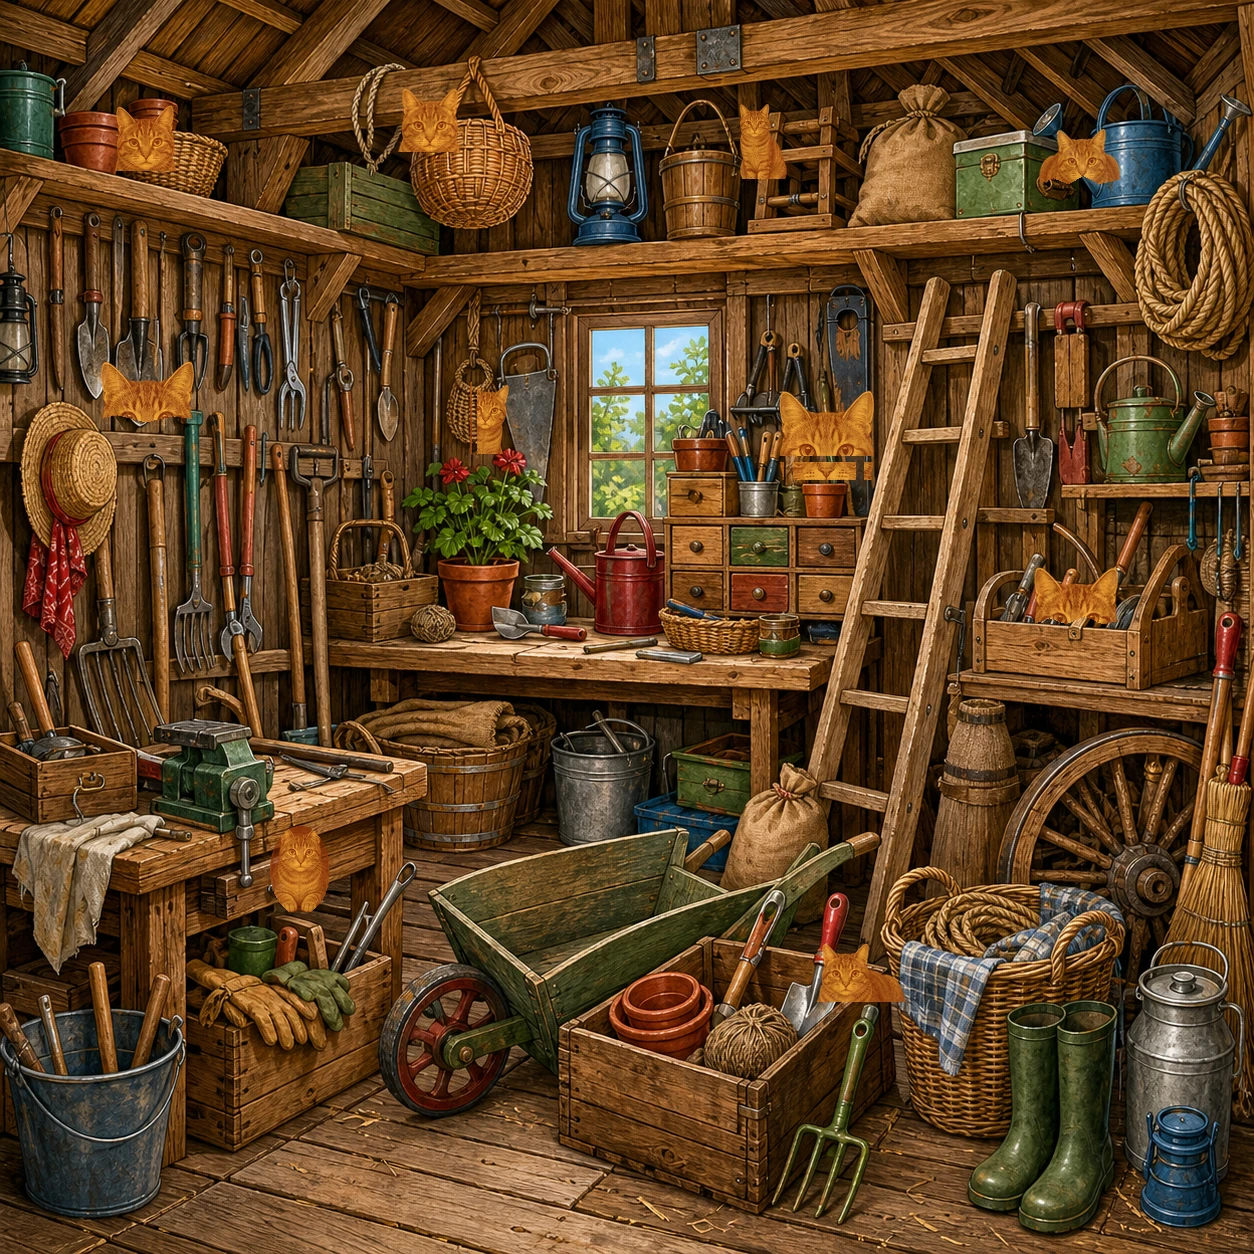
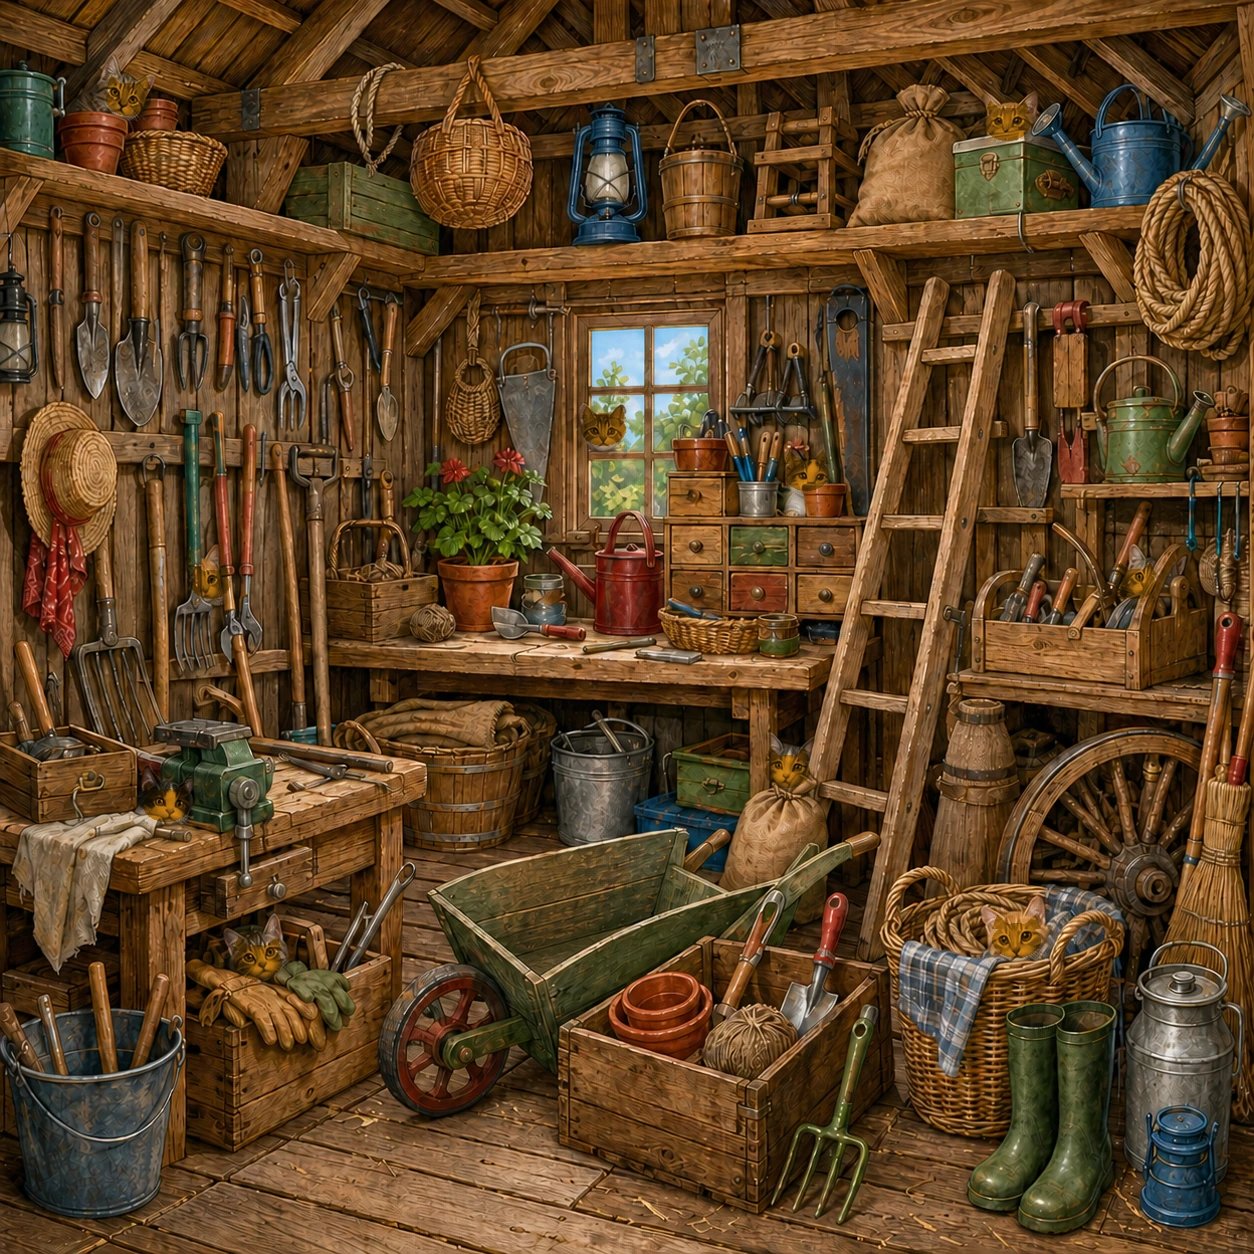
Rebuild review levels 68 to 75

Changed region(s): [[0.0, 0.0, 1.0, 1.0], [0.8397, 0.9019, 0.8708, 0.933]]

diff --git a/app.js b/app.js
@@ -130,7 +130,7 @@ const levelCatalog = [
   ,{ file: "next-19", name: "Lunar Control Laboratory", isColor: true, cats: [{"x":0.116,"y":0.11,"hitX":0.0387,"hitY":0.0383,"clipX":0.0337,"clipY":0.0333},{"x":0.3413,"y":0.0957,"hitX":0.0399,"hitY":0.0375,"clipX":0.0349,"clipY":0.0325},{"x":0.6077,"y":0.1128,"hitX":0.035,"hitY":0.0419,"clipX":0.03,"clipY":0.0369},{"x":0.8612,"y":0.1248,"hitX":0.0447,"hitY":0.035,"clipX":0.0397,"clipY":0.03},{"x":0.1176,"y":0.3122,"hitX":0.0515,"hitY":0.0363,"clipX":0.0465,"clipY":0.0313},{"x":0.3904,"y":0.3305,"hitX":0.035,"hitY":0.0435,"clipX":0.03,"clipY":0.0385},{"x":0.6595,"y":0.3469,"hitX":0.0519,"hitY":0.0479,"clipX":0.0469,"clipY":0.0429},{"x":0.8589,"y":0.4745,"hitX":0.0471,"hitY":0.0351,"clipX":0.0421,"clipY":0.0301},{"x":0.2388,"y":0.6938,"hitX":0.0355,"hitY":0.0471,"clipX":0.0305,"clipY":0.0421},{"x":0.6862,"y":0.7755,"hitX":0.0483,"hitY":0.0355,"clipX":0.0433,"clipY":0.0305}] }
   ,{ file: "next-20", name: "Lantern Bazaar", isColor: true, cats: [{"x":0.116,"y":0.11,"hitX":0.0387,"hitY":0.0383,"clipX":0.0337,"clipY":0.0333},{"x":0.3413,"y":0.0957,"hitX":0.0399,"hitY":0.0375,"clipX":0.0349,"clipY":0.0325},{"x":0.6077,"y":0.1128,"hitX":0.035,"hitY":0.0419,"clipX":0.03,"clipY":0.0369},{"x":0.8612,"y":0.1248,"hitX":0.0447,"hitY":0.035,"clipX":0.0397,"clipY":0.03},{"x":0.1176,"y":0.3122,"hitX":0.0515,"hitY":0.0363,"clipX":0.0465,"clipY":0.0313},{"x":0.3904,"y":0.3305,"hitX":0.035,"hitY":0.0435,"clipX":0.03,"clipY":0.0385},{"x":0.6595,"y":0.3469,"hitX":0.0519,"hitY":0.0479,"clipX":0.0469,"clipY":0.0429},{"x":0.8589,"y":0.4745,"hitX":0.0471,"hitY":0.0351,"clipX":0.0421,"clipY":0.0301},{"x":0.2388,"y":0.6938,"hitX":0.0355,"hitY":0.0471,"clipX":0.0305,"clipY":0.0421},{"x":0.6862,"y":0.7755,"hitX":0.0483,"hitY":0.0355,"clipX":0.0433,"clipY":0.0305}] }
 ].map(level => {
-  const assetVersion = ["next-01", "next-02", "next-03", "next-04", "next-05", "next-06", "next-07", "next-08", "next-09", "next-10", "next-11", "next-12"].includes(level.file) ? "?v=reviewed-56-67-v3" : "";
+  const assetVersion = level.file.startsWith("next-") ? "?v=reviewed-56-75-v4" : "";
   return { ...level, image: `assets/levels/${level.file}.webp${assetVersion}`, answer: `assets/levels/${level.file}-answer.webp${assetVersion}` };
 });
 
@@ -153,6 +153,20 @@ const REVIEWED_CATS_64_67 = {
 };
 levelCatalog.forEach(level => {
   if (REVIEWED_CATS_64_67[level.file]) level.cats = REVIEWED_CATS_64_67[level.file];
+});
+
+const REVIEWED_CATS_68_75 = {
+  "next-13": [{"x":0.5327,"y":0.126,"hitX":0.04,"hitY":0.04,"clipX":0.0335,"clipY":0.0303},{"x":0.3421,"y":0.2344,"hitX":0.04,"hitY":0.04,"clipX":0.0335,"clipY":0.0303},{"x":0.5909,"y":0.3557,"hitX":0.04,"hitY":0.04,"clipX":0.0351,"clipY":0.0319},{"x":0.2281,"y":0.4649,"hitX":0.04,"hitY":0.04,"clipX":0.0383,"clipY":0.0335},{"x":0.8828,"y":0.4817,"hitX":0.04,"hitY":0.04,"clipX":0.0335,"clipY":0.0303},{"x":0.9593,"y":0.4928,"hitX":0.04,"hitY":0.04,"clipX":0.0335,"clipY":0.0303},{"x":0.5215,"y":0.6699,"hitX":0.04,"hitY":0.04,"clipX":0.0367,"clipY":0.0319},{"x":0.8381,"y":0.6874,"hitX":0.04,"hitY":0.04,"clipX":0.0351,"clipY":0.0319},{"x":0.6906,"y":0.8198,"hitX":0.04,"hitY":0.04,"clipX":0.0399,"clipY":0.0351},{"x":0.1842,"y":0.8931,"hitX":0.04,"hitY":0.04,"clipX":0.0351,"clipY":0.0319}],
+  "next-14": [{"x":0.2823,"y":0.0295,"hitX":0.04,"hitY":0.04,"clipX":0.0319,"clipY":0.0287},{"x":0.0319,"y":0.2185,"hitX":0.04,"hitY":0.04,"clipX":0.0335,"clipY":0.0303},{"x":0.4976,"y":0.1587,"hitX":0.04,"hitY":0.04,"clipX":0.0335,"clipY":0.0303},{"x":0.8357,"y":0.1172,"hitX":0.04,"hitY":0.04,"clipX":0.0319,"clipY":0.0287},{"x":0.9545,"y":0.2408,"hitX":0.04,"hitY":0.04,"clipX":0.0335,"clipY":0.0303},{"x":0.9474,"y":0.4641,"hitX":0.04,"hitY":0.04,"clipX":0.0367,"clipY":0.0319},{"x":0.697,"y":0.4992,"hitX":0.04,"hitY":0.04,"clipX":0.0303,"clipY":0.0271},{"x":0.386,"y":0.5662,"hitX":0.04,"hitY":0.04,"clipX":0.0319,"clipY":0.0287},{"x":0.2153,"y":0.7959,"hitX":0.04,"hitY":0.04,"clipX":0.0399,"clipY":0.0351},{"x":0.3054,"y":0.8987,"hitX":0.04,"hitY":0.04,"clipX":0.0399,"clipY":0.0351}],
+  "next-15": [{"x":0.189,"y":0.0885,"hitX":0.04,"hitY":0.04,"clipX":0.0303,"clipY":0.0271},{"x":0.5183,"y":0.1053,"hitX":0.04,"hitY":0.04,"clipX":0.0319,"clipY":0.0287},{"x":0.929,"y":0.0925,"hitX":0.04,"hitY":0.04,"clipX":0.0303,"clipY":0.0271},{"x":0.8437,"y":0.1826,"hitX":0.04,"hitY":0.04,"clipX":0.0287,"clipY":0.0255},{"x":0.2225,"y":0.2217,"hitX":0.04,"hitY":0.04,"clipX":0.0319,"clipY":0.0287},{"x":0.8214,"y":0.3142,"hitX":0.04,"hitY":0.04,"clipX":0.0335,"clipY":0.0303},{"x":0.5518,"y":0.5582,"hitX":0.04,"hitY":0.04,"clipX":0.0303,"clipY":0.0271},{"x":0.1324,"y":0.634,"hitX":0.04,"hitY":0.04,"clipX":0.0303,"clipY":0.0271},{"x":0.7313,"y":0.7081,"hitX":0.04,"hitY":0.04,"clipX":0.0287,"clipY":0.0255},{"x":0.8222,"y":0.89,"hitX":0.04,"hitY":0.04,"clipX":0.0319,"clipY":0.0287}],
+  "next-16": [{"x":0.1021,"y":0.0758,"hitX":0.04,"hitY":0.04,"clipX":0.0351,"clipY":0.0319},{"x":0.803,"y":0.0957,"hitX":0.04,"hitY":0.04,"clipX":0.0351,"clipY":0.0319},{"x":0.4809,"y":0.3389,"hitX":0.04,"hitY":0.04,"clipX":0.0351,"clipY":0.0319},{"x":0.6427,"y":0.3748,"hitX":0.04,"hitY":0.04,"clipX":0.0351,"clipY":0.0319},{"x":0.1675,"y":0.4633,"hitX":0.04,"hitY":0.04,"clipX":0.0303,"clipY":0.0271},{"x":0.9051,"y":0.4625,"hitX":0.04,"hitY":0.04,"clipX":0.0319,"clipY":0.0287},{"x":0.1324,"y":0.6388,"hitX":0.04,"hitY":0.04,"clipX":0.0367,"clipY":0.0319},{"x":0.6276,"y":0.6116,"hitX":0.04,"hitY":0.04,"clipX":0.0351,"clipY":0.0319},{"x":0.2049,"y":0.764,"hitX":0.04,"hitY":0.04,"clipX":0.0383,"clipY":0.0335},{"x":0.8102,"y":0.7464,"hitX":0.04,"hitY":0.04,"clipX":0.0383,"clipY":0.0335}],
+  "next-17": [{"x":0.5965,"y":0.1675,"hitX":0.04,"hitY":0.04,"clipX":0.0319,"clipY":0.0287},{"x":0.4825,"y":0.3078,"hitX":0.04,"hitY":0.04,"clipX":0.0335,"clipY":0.0303},{"x":0.3955,"y":0.3174,"hitX":0.04,"hitY":0.04,"clipX":0.0335,"clipY":0.0303},{"x":0.1228,"y":0.4195,"hitX":0.04,"hitY":0.04,"clipX":0.0367,"clipY":0.0319},{"x":0.945,"y":0.4872,"hitX":0.04,"hitY":0.04,"clipX":0.0335,"clipY":0.0303},{"x":0.1268,"y":0.6316,"hitX":0.04,"hitY":0.04,"clipX":0.0335,"clipY":0.0303},{"x":0.6659,"y":0.6268,"hitX":0.04,"hitY":0.04,"clipX":0.0367,"clipY":0.0319},{"x":0.2974,"y":0.6946,"hitX":0.04,"hitY":0.04,"clipX":0.0367,"clipY":0.0319},{"x":0.1324,"y":0.8445,"hitX":0.04,"hitY":0.04,"clipX":0.0383,"clipY":0.0335},{"x":0.9681,"y":0.7608,"hitX":0.04,"hitY":0.04,"clipX":0.0351,"clipY":0.0319}],
+  "next-18": [{"x":0.1236,"y":0.1938,"hitX":0.04,"hitY":0.04,"clipX":0.0351,"clipY":0.0319},{"x":0.4705,"y":0.1268,"hitX":0.04,"hitY":0.04,"clipX":0.0303,"clipY":0.0271},{"x":0.7759,"y":0.1443,"hitX":0.04,"hitY":0.04,"clipX":0.0351,"clipY":0.0319},{"x":0.3182,"y":0.3684,"hitX":0.04,"hitY":0.04,"clipX":0.0335,"clipY":0.0303},{"x":0.697,"y":0.3581,"hitX":0.04,"hitY":0.04,"clipX":0.0351,"clipY":0.0319},{"x":0.0837,"y":0.5391,"hitX":0.04,"hitY":0.04,"clipX":0.0383,"clipY":0.0335},{"x":0.697,"y":0.5167,"hitX":0.04,"hitY":0.04,"clipX":0.0335,"clipY":0.0303},{"x":0.8963,"y":0.6459,"hitX":0.04,"hitY":0.04,"clipX":0.0335,"clipY":0.0303},{"x":0.5606,"y":0.7632,"hitX":0.04,"hitY":0.04,"clipX":0.0383,"clipY":0.0335},{"x":0.8836,"y":0.8612,"hitX":0.04,"hitY":0.04,"clipX":0.0383,"clipY":0.0335}],
+  "next-19": [{"x":0.2121,"y":0.1021,"hitX":0.04,"hitY":0.04,"clipX":0.0319,"clipY":0.0287},{"x":0.5136,"y":0.2344,"hitX":0.04,"hitY":0.04,"clipX":0.0319,"clipY":0.0287},{"x":0.8589,"y":0.2289,"hitX":0.04,"hitY":0.04,"clipX":0.0319,"clipY":0.0287},{"x":0.7217,"y":0.4617,"hitX":0.04,"hitY":0.04,"clipX":0.0335,"clipY":0.0303},{"x":0.8573,"y":0.5925,"hitX":0.04,"hitY":0.04,"clipX":0.0303,"clipY":0.0271},{"x":0.6116,"y":0.6268,"hitX":0.04,"hitY":0.04,"clipX":0.0367,"clipY":0.0319},{"x":0.3469,"y":0.6443,"hitX":0.04,"hitY":0.04,"clipX":0.0351,"clipY":0.0319},{"x":0.1659,"y":0.6802,"hitX":0.04,"hitY":0.04,"clipX":0.0367,"clipY":0.0319},{"x":0.1699,"y":0.9027,"hitX":0.04,"hitY":0.04,"clipX":0.0383,"clipY":0.0335},{"x":0.8509,"y":0.8931,"hitX":0.04,"hitY":0.04,"clipX":0.0399,"clipY":0.0351}],
+  "next-20": [{"x":0.5112,"y":0.1093,"hitX":0.04,"hitY":0.04,"clipX":0.0319,"clipY":0.0287},{"x":0.8421,"y":0.1085,"hitX":0.04,"hitY":0.04,"clipX":0.0319,"clipY":0.0287},{"x":0.1164,"y":0.3931,"hitX":0.04,"hitY":0.04,"clipX":0.0351,"clipY":0.0319},{"x":0.3333,"y":0.504,"hitX":0.04,"hitY":0.04,"clipX":0.0303,"clipY":0.0271},{"x":0.6746,"y":0.4219,"hitX":0.04,"hitY":0.04,"clipX":0.0367,"clipY":0.0319},{"x":0.8955,"y":0.362,"hitX":0.04,"hitY":0.04,"clipX":0.0303,"clipY":0.0271},{"x":0.8389,"y":0.4793,"hitX":0.04,"hitY":0.04,"clipX":0.0351,"clipY":0.0319},{"x":0.1539,"y":0.6754,"hitX":0.04,"hitY":0.04,"clipX":0.0383,"clipY":0.0335},{"x":0.4785,"y":0.8246,"hitX":0.04,"hitY":0.04,"clipX":0.0383,"clipY":0.0335},{"x":0.823,"y":0.7927,"hitX":0.04,"hitY":0.04,"clipX":0.0383,"clipY":0.0335}]
+};
+levelCatalog.forEach(level => {
+  if (REVIEWED_CATS_68_75[level.file]) level.cats = REVIEWED_CATS_68_75[level.file];
 });
 
 // Fixed shuffle: varied on first load, stable across refreshes so saved progress stays meaningful.

diff --git a/index.html b/index.html
@@ -100,6 +100,6 @@
       </section>
     </div>
 
-    <script src="app.js?v=reviewed-56-67-v18"></script>
+    <script src="app.js?v=reviewed-56-75-v19"></script>
   </body>
 </html>

diff --git a/PROJECT_STATUS.md b/PROJECT_STATUS.md
@@ -169,6 +169,12 @@ review the 75-level catalog before doing more expansion.
 - Player and answer assets are 1254 x 1254 and share the same cat geometry.
 - Level 64 uses two approved deterministic hidden-cat additions to reach exactly ten.
 
+### Review rebuild 68-75
+
+- Levels 68-75 (`next-13` through `next-20`) were rebuilt as ten-cat scenes.
+- Player and answer assets are 1254 x 1254 and share the same cat geometry.
+- The completed 59-75 review rebuild now follows the approved level 56-58 standard.
+
 ## Recovery roadmap
 
 1. Define the desired player experience and a small set of puzzle acceptance
